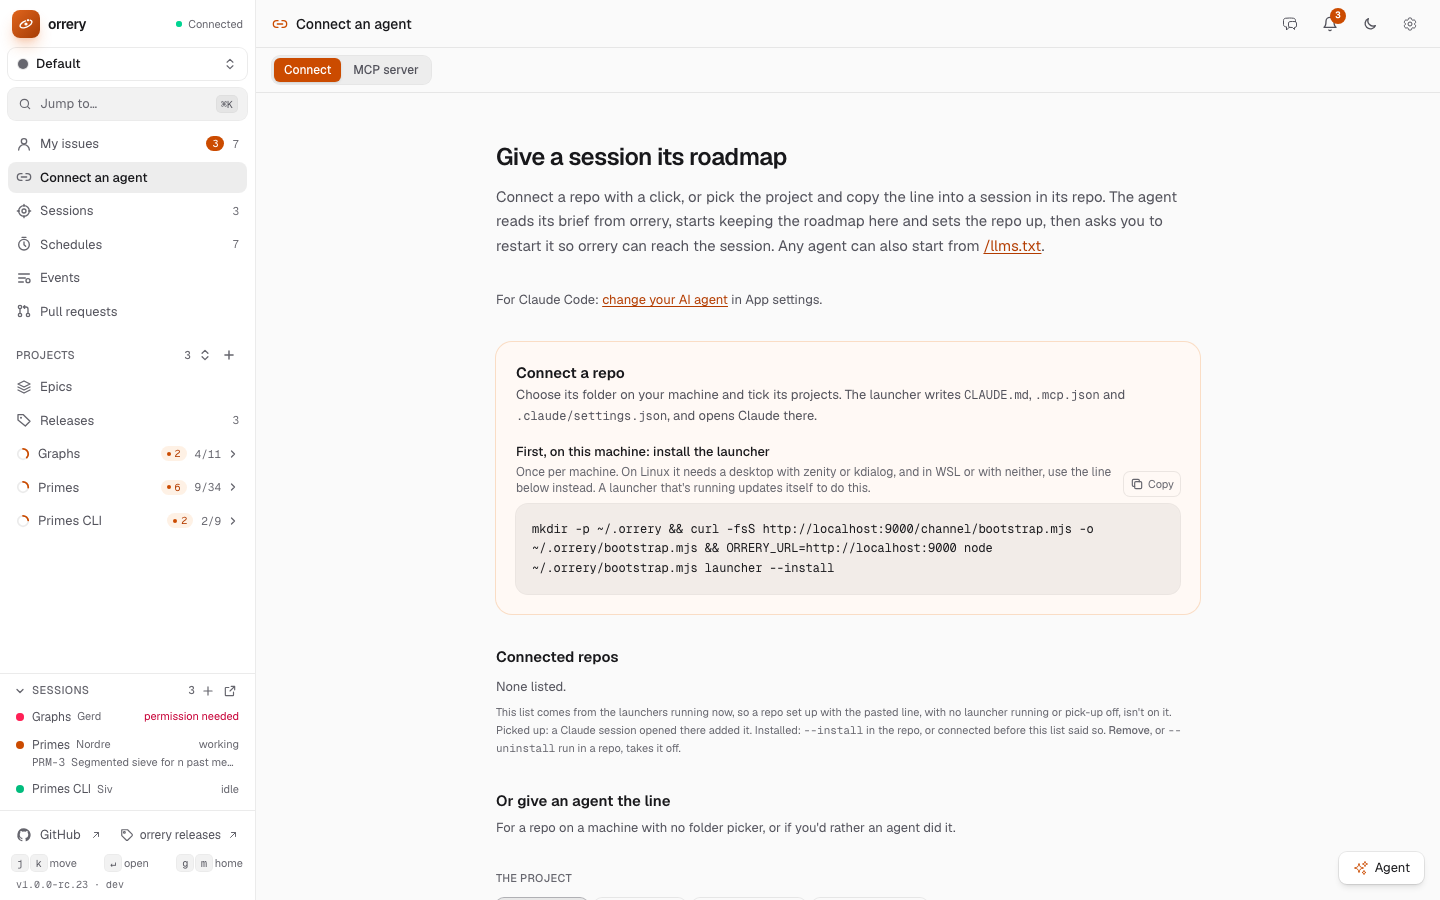
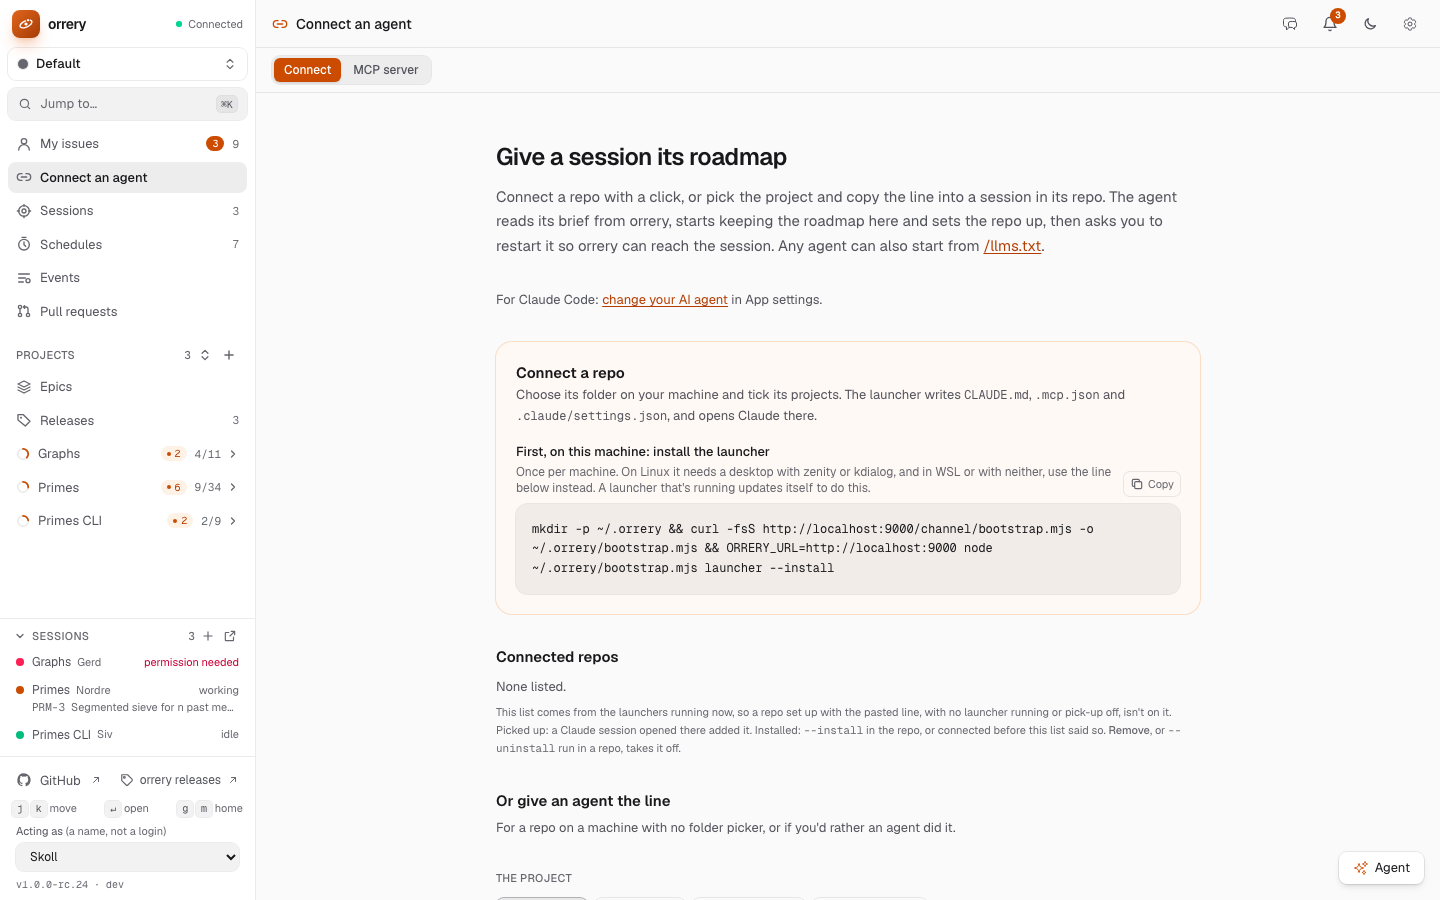
fix(repo): name the README sessions' person, and retake the images
With the demo's second person, a session stream that names nobody is
refused, so the README images run found no sessions listening.

Changed region(s): [[0.0, 0.6844, 0.1562, 0.9644]]

diff --git a/web/e2e/readme/images.spec.ts b/web/e2e/readme/images.spec.ts
@@ -18,6 +18,8 @@ const SESSIONS = [
 ]
 const VERSION = JSON.parse(readFileSync(repo('web/package.json'), 'utf8')).version
 const OWNER = {'Orrery-Actor': 'skoll'}
+// The demo has two people, so a session says whose it is (ORR-1429).
+const PERSON = {'Orrery-Person': 'skoll'}
 let streams: ReturnType<typeof hold>[] = []
 
 test.beforeAll(async ({request, baseURL}) => {
@@ -25,8 +27,8 @@ test.beforeAll(async ({request, baseURL}) => {
     // Its repo is made up, so the issue's page would say GitHub doesn't have it.
     expect((await request.patch('/api/projects/primes', {data: {repo: null}, headers: OWNER})).ok()).toBeTruthy()
     streams = [
-        hold(baseURL!, `/api/projects/primes/launches/stream?version=${VERSION}`),
-        ...SESSIONS.map(s => hold(baseURL!, `/api/projects/${s.project}/signals/stream?session=${s.id}&name=${s.name}&version=${VERSION}&format=text`)),
+        hold(baseURL!, `/api/projects/primes/launches/stream?version=${VERSION}`, PERSON),
+        ...SESSIONS.map(s => hold(baseURL!, `/api/projects/${s.project}/signals/stream?session=${s.id}&name=${s.name}&version=${VERSION}&format=text`, PERSON)),
     ]
     await expect.poll(async () => (await (await request.get('/api/sessions')).json()).filter((s: {listening: boolean}) => s.listening).length).toBe(SESSIONS.length)
     const focus = await request.post('/api/projects/primes/issues/PRM-3/focus', {data: {session: 'readme-nordre'}, headers: OWNER})

diff --git a/web/e2e/support.ts b/web/e2e/support.ts
@@ -57,10 +57,10 @@ export async function dragCard(page: Page, card: Locator, column: Locator) {
 }
 
 /** A stream held open the way a channel or launcher holds it, keeping what arrives; `stop` lets it go. */
-export function hold(baseURL: string, path: string) {
+export function hold(baseURL: string, path: string, headers?: Record<string, string>) {
     const controller = new AbortController()
     const said = {text: ''}
-    fetch(`${baseURL}${path}`, {signal: controller.signal}).then(async response => {
+    fetch(`${baseURL}${path}`, {signal: controller.signal, headers}).then(async response => {
         const reader = response.body!.getReader()
         for (;;) {
             const {done, value} = await reader.read()
